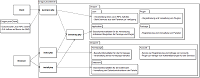
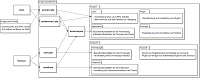
Dokumentation zur Entwicklung eines eigenen JavaScript Clients Diagramm erweitert um die Multirequests

diff --git a/config/dragonx/homepage/documentation.php b/config/dragonx/homepage/documentation.php
@@ -23,6 +23,7 @@ return array(
     'framework_firststeps' => 'Erste Schritte',
     'framework_dragonjsonclient' => 'Dragon Json Client',
     'framework_ownpackages' => 'Eigene Pakete',
+    'framework_ownclient' => 'Eigener Client',
     'Namensraum Dragon',
     'dragon_application' => 'Paket Application',
     'dragon_json' => 'Paket Json',
